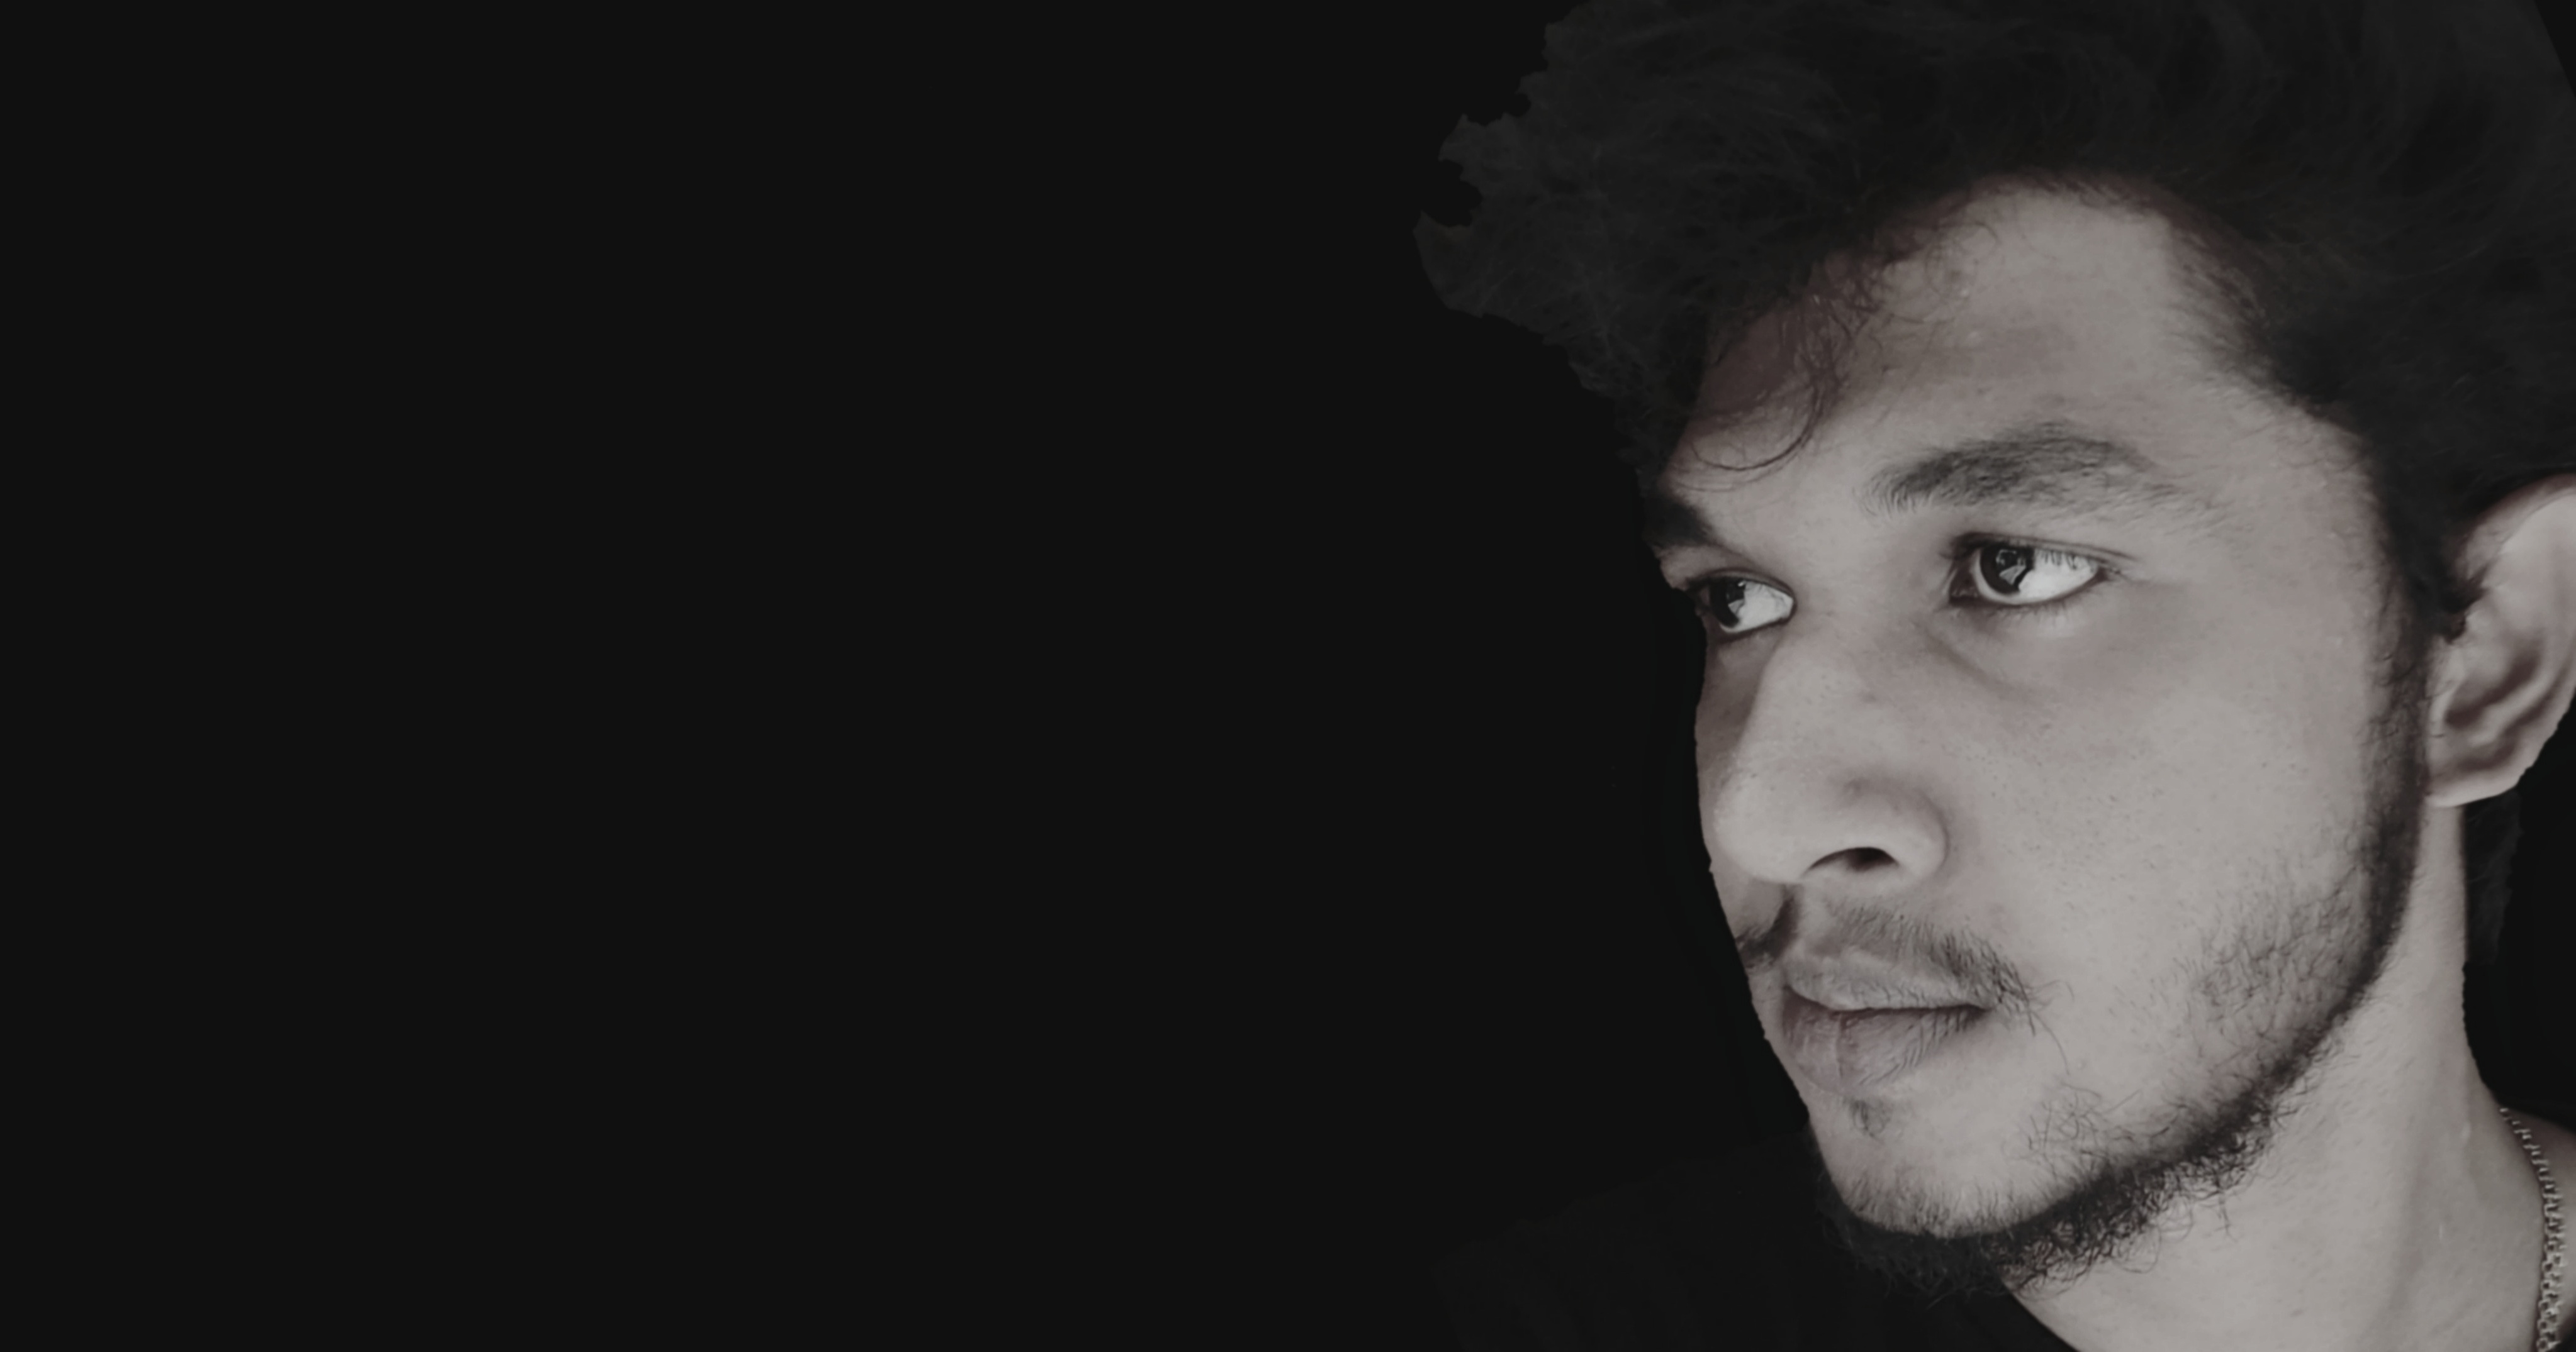
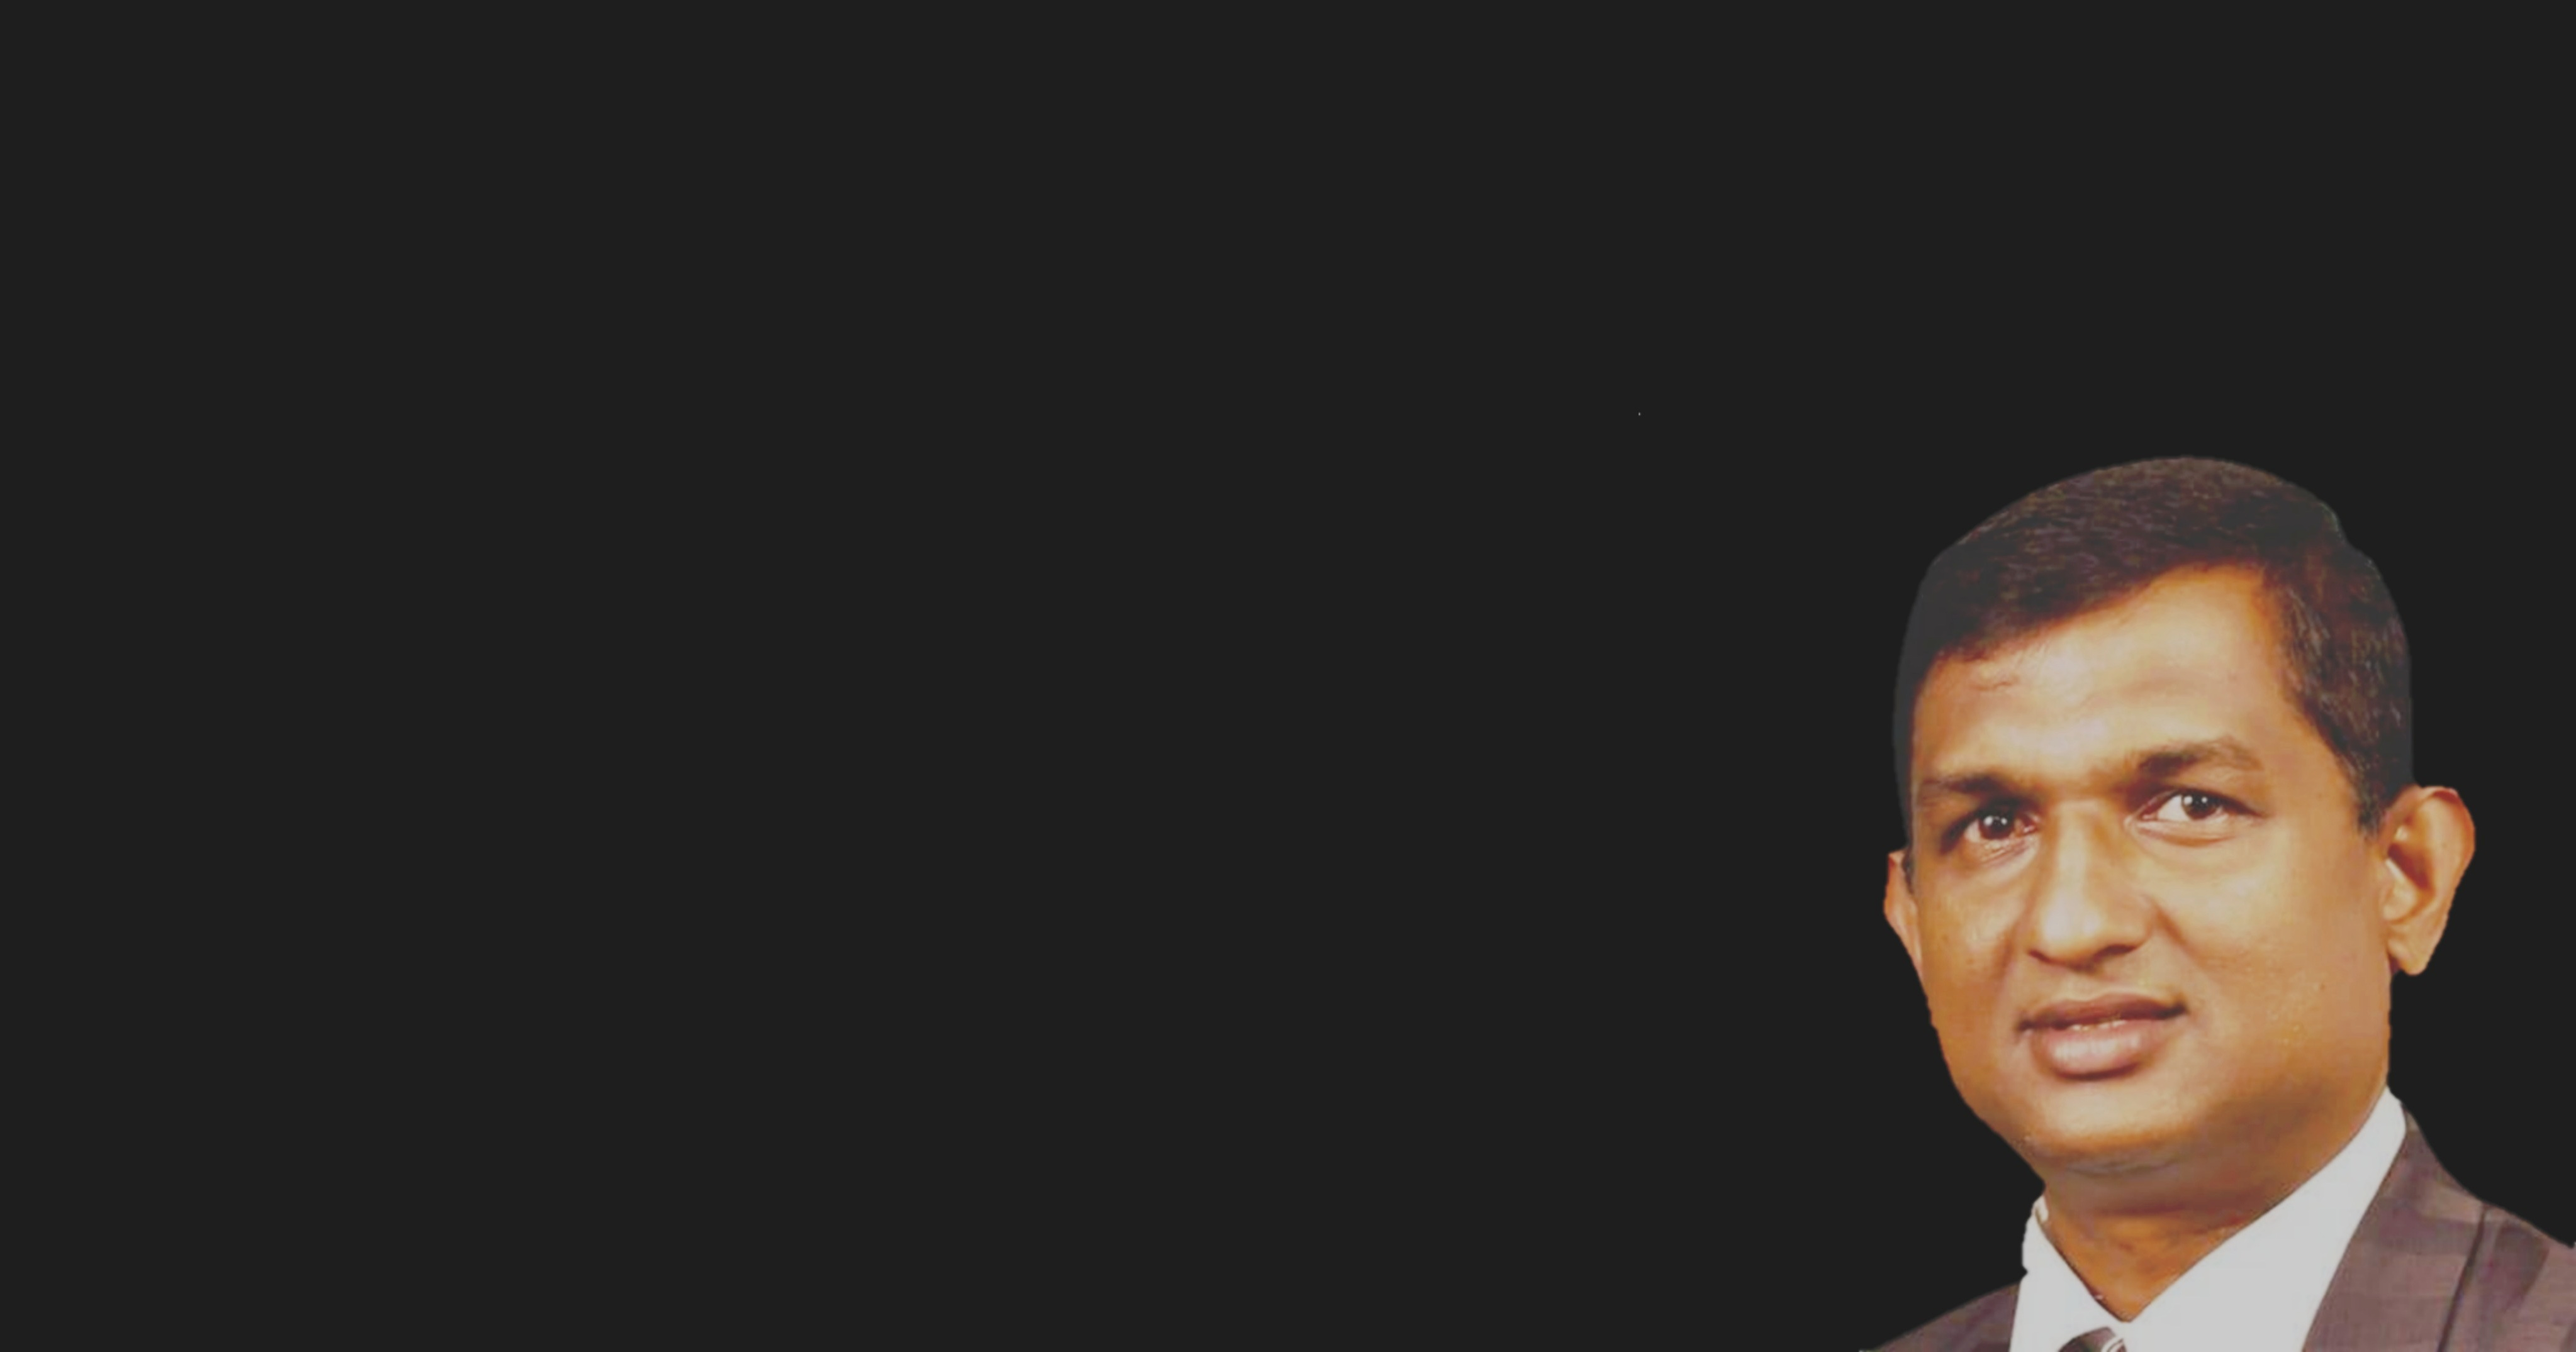
updaate

Changed region(s): [[0.6204, 0.1247, 1.0, 1.0]]

diff --git a/New test file/index.html b/New test file/index.html
@@ -19,9 +19,9 @@
                 <h2 class="logo">Ayanna<span>Kiyanna</span></h2>
                 <ul>
                     <li><a href="#">Home</a></li>
-                    <li><a href="#">About Me</a></li>
-                    <li><a href="#">Service</a></li>
-                    <li><a href="#">Skills</a></li>
+                    <li><a href="#">About Us</a></li>
+                    <li><a href="#">Our Service</a></li>
+                    <li><a href="#">Photo Bucket</a></li>
                     <li><a href="#">Contact me</a></li>
                 </ul>
                 <a href="#" class="btn">Sign in</a>
@@ -44,10 +44,10 @@
         <!----About Section----->
         <section class="about">
             <div class="main">
-                <img class="image-About" src="./images/About.jpeg">
+                <img class="image-About" src="./images/About.jpg">
                 <div class="about-text">
-                    <h2>About Me</h2>
-                    <h5>Developer <span>& Designer</span></h5>
+                    <h2>About Us</h2>
+                    <h5>Institute <span>& Education Hub</span></h5>
                     <p>I am a FullStack Developer. A motivated, adaptable, and responsible computing undergraduate
                         seeking a position in an IT position which will utilize the professional,
                         technical and skills developed through keep practicing in this field. I can provide clean code and pixel

diff --git a/New test file/style.css b/New test file/style.css
@@ -7,7 +7,7 @@
 .hero{
     height: 100vh;
     width: 100%;
-    background-image: url(./images/Background.jpg);
+    background-image: url(./images/background.jpg);
     background-size: cover;
     background-position: center;
 }
